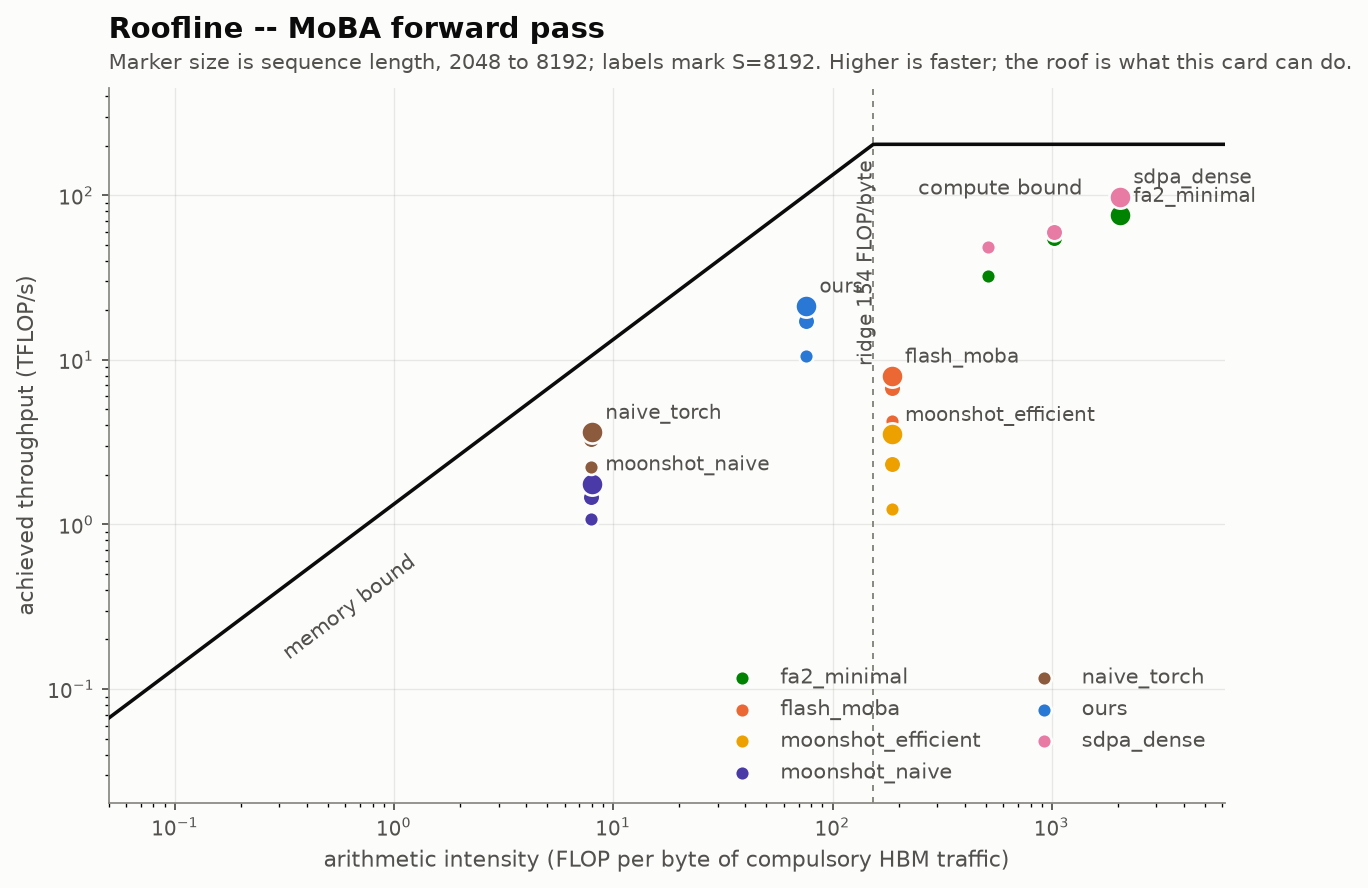
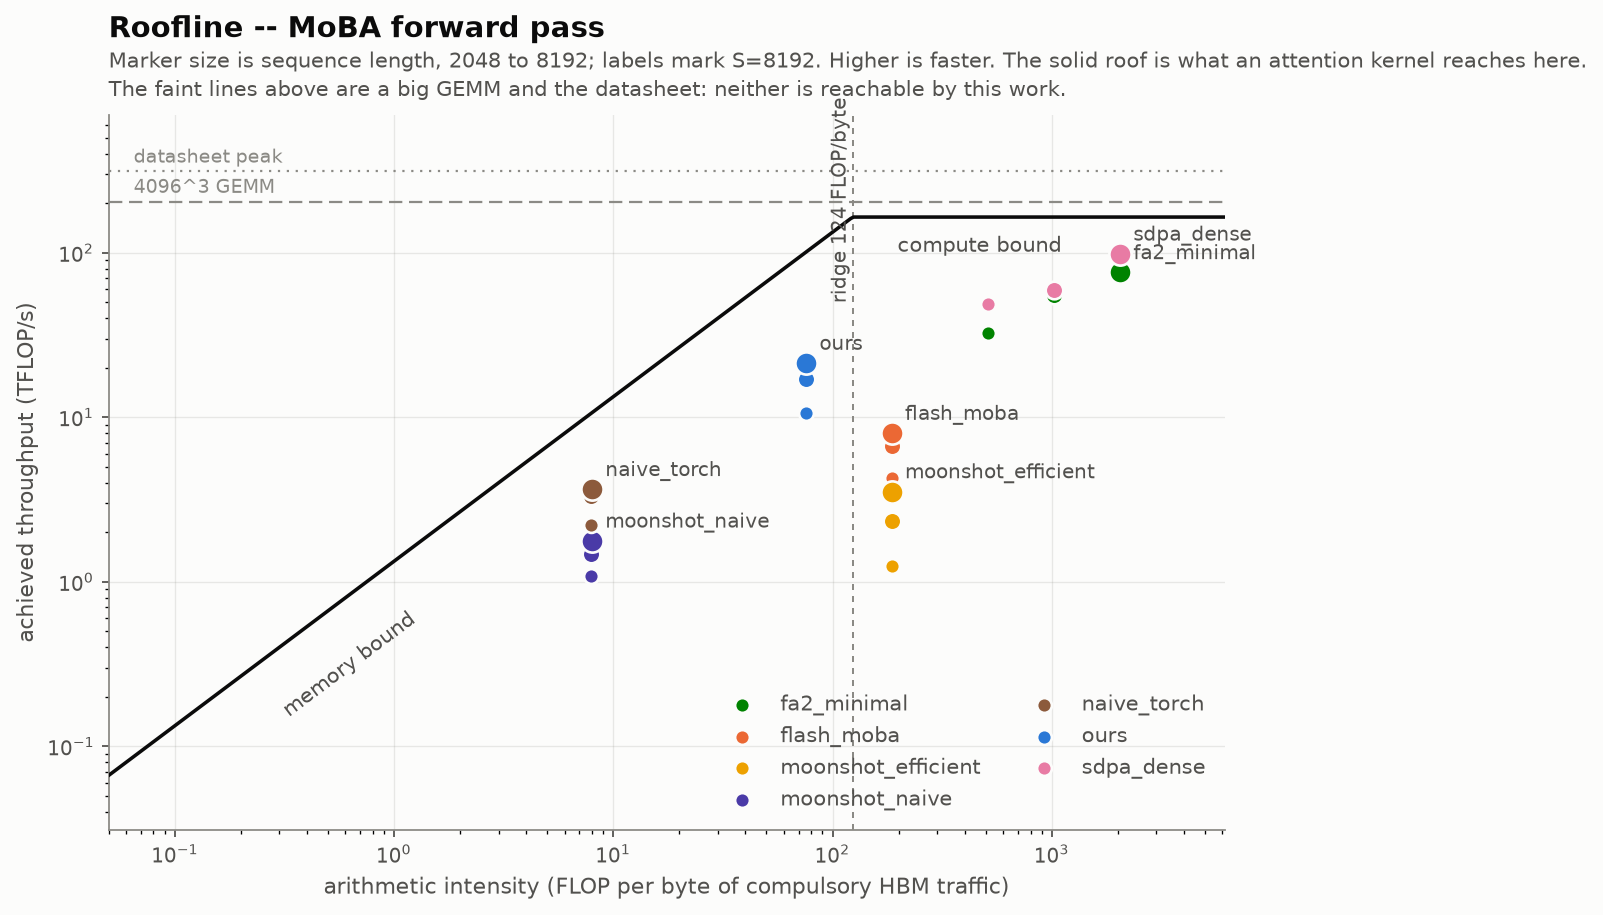
roofline: three ceilings, and the datasheet as audit rather than roof
The roof was a 4096^3 GEMM, which nothing in an attention kernel resembles.
Replacing it with the measured tile ceiling would have been just as wrong in the
other direction: a single number cannot say why it sits where it does.

Three now. Datasheet peak (312 TFLOP/s, dotted) is what the silicon is rated
for. The measured GEMM (204, dashed) is what the best code reaches. The measured
tile plus online softmax (164, solid) is what an attention kernel reaches, and
that is the only one a kernel is scored against -- the distance below it is the
only headroom anyone can chase. Drawn against 312, a 35% gap nobody can close
gets folded into our number and the reading barely moves however well we
optimise.

The datasheet is the audit, never the line: 86% of spec bandwidth and 65% of
spec compute are ordinary, and a measurement outside that band means the harness
is wrong rather than the card being unusual. The run now prints those ratios
itself.

Two bugs in --from-log, both from reading ambient state that the data had
outlived: the header named the local card above numbers from another machine,
and the spec lookup missed because it keyed on the local architecture. The
device name now travels in the log and is parsed back out.

Lowering the compute ceiling moves the ridge 153.5 -> 123.6 FLOP/byte, so the
compute-bound region widens; a kernel can cross into it purely because the
honest ceiling turned out lower.

diff --git a/bench/roofline.py b/bench/roofline.py
@@ -34,6 +34,7 @@ collecting.
 """
 
 import argparse
+import dataclasses
 import time
 from dataclasses import dataclass, field
 
@@ -67,6 +68,54 @@ FP32 = 4
 # same wrong factor.
 BANDWIDTH_ELEMS = 1 << 26           # 64 Mi bf16 = 128 MiB per buffer
 MATMUL_N = 4096
+
+# Datasheet figures, by architecture. These are the *audit*, never the roof:
+# a measured GEMM at 60-70% of spec is ordinary, and a measurement outside that
+# band means the harness is wrong rather than the card being unusual. Drawing
+# the roof here instead would fold a 35% gap nobody can close into every
+# implementation's score.
+#
+# Dense rates, not the "with sparsity" headline: NVIDIA quotes A100 bf16 as
+# "312 TFLOPS | 624 TFLOPS*" where the asterisk is 2:4 structured sparsity,
+# which nothing here uses. Bandwidth is the 40 GB PCIe part's 1555 GB/s.
+#
+# Only architectures whose datasheet has actually been read appear. A missing
+# entry prints no audit rather than a guessed one.
+SPEC = {
+    "sm_80": {"tflops_bf16": 312.0, "bandwidth_gbs": 1555.0},
+}
+
+# The same figures reachable by device name, for `--from-log`: a log replotted
+# on another machine must take its datasheet from the card that produced it,
+# not from whatever is plugged into the machine doing the drawing.
+SPEC_BY_NAME = {
+    "A100": SPEC["sm_80"],
+}
+
+
+def device_spec(device=None, name: str | None = None) -> dict:
+    """Returns datasheet figures for a card, or an empty dict.
+
+    Args:
+        device: Passed to `torch.cuda.get_device_capability`, when no `name`
+            is given.
+        name: A device name, as `--from-log` recovers from a stored run. Takes
+            precedence, because the log's card is the one the numbers describe.
+
+    Returns:
+        A dict with "tflops_bf16" and "bandwidth_gbs", or {} when that
+        architecture's datasheet is not recorded. Missing beats guessed: an
+        absent entry prints no audit rather than a wrong one.
+    """
+    if name:
+        for key, spec in SPEC_BY_NAME.items():
+            if key in name:
+                return spec
+        return {}
+    if not torch.cuda.is_available():
+        return {}
+    major, minor = torch.cuda.get_device_capability(device)
+    return SPEC.get(f"sm_{major}{minor}", {})
 
 
 # ---------------------------------------------------------------------------
@@ -115,10 +164,52 @@ def measure_peak_tflops(dtype: torch.dtype = torch.bfloat16) -> float:
 
 @dataclass(frozen=True)
 class Ceilings:
-    """This card's measured limits."""
+    """This card's limits: what it is rated for, and what it actually reaches.
+
+    THREE COMPUTE CEILINGS, NOT ONE, because "% of roof" is only useful when
+    every gap inside it is one somebody could close. Stacked:
+
+        spec_flops        what the silicon is rated for. Nobody reaches it.
+        peak_flops        what a 4096^3 GEMM reaches -- the best any code does.
+        attainable_flops  what this tile shape plus an online softmax reaches.
+
+    On the A100 those are 312, 204 and 164 TFLOP/s, and the two gaps have
+    different owners. 312 -> 204 is silicon against best-possible code: memory
+    latency, scheduling, clocks -- nobody's fault and nobody's to fix. 204 ->
+    164 is a GEMM against attention: the softmax runs on CUDA cores while the
+    matmuls own the tensor cores, so it is the algorithm's price rather than
+    this implementation's.
+
+    Only the third is the roof a kernel is measured against, because only the
+    distance below *it* is headroom anyone can chase. Drawn against 312, a 35%
+    gap nobody can close is folded into our number, and the reading barely
+    moves whether we optimise well or not at all.
+
+    The other two still earn their place on the plot: they say *why* the roof
+    sits where it does, and `spec_flops` audits the measurement. A measured GEMM
+    at 65% of spec is ordinary; at 95% or 20% the harness is wrong, not the
+    card. The datasheet is the check, never the line.
+
+    Attributes:
+        bandwidth: Measured HBM bandwidth, bytes/s.
+        peak_flops: Measured large-GEMM throughput, FLOP/s.
+        attainable_flops: Measured throughput at this kernel's tile shape with
+            its softmax (`bench/tile_ceiling.py`). None until measured, in
+            which case `peak_flops` is the roof and the plot says so.
+        spec_bandwidth: Datasheet bandwidth, bytes/s, or None.
+        spec_flops: Datasheet compute, FLOP/s, or None.
+    """
 
     bandwidth: float                 # bytes/s
     peak_flops: float                # FLOP/s
+    attainable_flops: float | None = None
+    spec_bandwidth: float | None = None
+    spec_flops: float | None = None
+
+    @property
+    def roof_flops(self) -> float:
+        """The flat roof a kernel is actually measured against."""
+        return self.attainable_flops or self.peak_flops
 
     @property
     def ridge(self) -> float:
@@ -127,11 +218,11 @@ class Ceilings:
         Below it a kernel is memory bound however well it is written; above it
         no amount of extra bandwidth helps.
         """
-        return self.peak_flops / self.bandwidth
+        return self.roof_flops / self.bandwidth
 
     def roof(self, intensity: float) -> float:
         """Attainable FLOP/s at a given arithmetic intensity."""
-        return min(self.peak_flops, self.bandwidth * intensity)
+        return min(self.roof_flops, self.bandwidth * intensity)
 
 
 # ---------------------------------------------------------------------------
@@ -371,13 +462,37 @@ def measure(name: str, seq_len: int, cfg: MoBAConfig) -> float | None:
 # ---------------------------------------------------------------------------
 
 
-def print_ceilings(c: Ceilings) -> None:
-    props = torch.cuda.get_device_properties(0)
-    print(f"\n{props.name} -- measured ceilings, not datasheet")
-    print(f"  HBM bandwidth   {c.bandwidth / BYTES_PER_GIB:8.1f} GiB/s")
-    print(f"  bf16 peak       {c.peak_flops / 1e12:8.2f} TFLOP/s "
-          f"({MATMUL_N}^3 GEMM)")
-    print(f"  ridge point     {c.ridge:8.1f} FLOP/byte  "
+def print_ceilings(c: Ceilings, name: str = "") -> None:
+    """Prints the ceiling stack, each measured value audited against spec.
+
+    Args:
+        c: The ceilings.
+        name: The card these describe. Supplied by `--from-log`, which may be
+            replotting a run from a different machine entirely.
+    """
+    name = name or (torch.cuda.get_device_properties(0).name
+                    if torch.cuda.is_available() else "device")
+    print(f"\n{name} -- ceilings")
+
+    def audit(measured, spec):
+        """Renders a measured/spec ratio, or nothing when spec is unknown."""
+        return f"  ({measured / spec:.0%} of spec)" if spec else ""
+
+    print(f"  HBM bandwidth       {c.bandwidth / BYTES_PER_GIB:8.1f} GiB/s"
+          f"{audit(c.bandwidth, c.spec_bandwidth)}")
+    print(f"  bf16, {MATMUL_N}^3 GEMM  {c.peak_flops / 1e12:8.2f} TFLOP/s"
+          f"{audit(c.peak_flops, c.spec_flops)}")
+    if c.attainable_flops:
+        print(f"  bf16, our tile      {c.attainable_flops / 1e12:8.2f} TFLOP/s"
+              f"{audit(c.attainable_flops, c.spec_flops)}   <- the roof")
+        print(f"    tile shape and softmax cost "
+              f"{c.peak_flops / c.attainable_flops:.2f}x against a big GEMM")
+    else:
+        print("  bf16, our tile         not measured -- run "
+              "`python -m bench.tile_ceiling` and pass --attainable-tflops;")
+        print("                         the GEMM stands in, and overstates "
+              "the roof")
+    print(f"  ridge point         {c.ridge:8.1f} FLOP/byte  "
           f"<- below this, memory bound however good the kernel")
 
 
@@ -434,6 +549,25 @@ def plot(points: list[Point], c: Ceilings, path: str) -> str:
 
     lo, hi = 0.05, max(4096.0, max(p.intensity for p in points) * 3)
     xs = [lo * (hi / lo) ** (i / 400) for i in range(401)]
+
+    # The ceilings a kernel is *not* measured against, drawn faintly above the
+    # roof. They are what makes the roof's position legible: without them a
+    # reader cannot tell whether 164 TFLOP/s is the card being slow or
+    # attention being expensive. Weight encodes authority -- dotted for a
+    # datasheet nobody reaches, dashed for a GEMM no attention kernel
+    # resembles, solid for the line that actually bounds this work.
+    for value, label, dashes in (
+        (c.spec_flops, "datasheet peak", (0, (1, 3))),
+        (c.peak_flops if c.attainable_flops else None,
+         f"{MATMUL_N}^3 GEMM", (0, (6, 3))),
+    ):
+        if not value:
+            continue
+        ax.axhline(value / 1e12, color=plots.INK_FAINT, linewidth=1.0,
+                   linestyle=dashes, zorder=2)
+        ax.text(lo * 1.3, value / 1e12 * 1.06, label, color=plots.INK_FAINT,
+                fontsize=8.5, va="bottom")
+
     ax.plot(xs, [c.roof(x) / 1e12 for x in xs], color=plots.INK,
             linewidth=1.6, zorder=3)
     ax.axvline(c.ridge, color=plots.INK_FAINT, linewidth=0.9,
@@ -458,7 +592,10 @@ def plot(points: list[Point], c: Ceilings, path: str) -> str:
     ax.set_xscale("log")
     ax.set_yscale("log")
     ax.set_xlim(lo, hi)
-    ax.set_ylim(c.peak_flops / 1e12 * 1e-4, c.peak_flops / 1e12 * 2.2)
+    # Headroom above the *tallest* ceiling drawn, not the roof, or the
+    # datasheet line lands outside the axes.
+    top = max(c.roof_flops, c.peak_flops, c.spec_flops or 0.0)
+    ax.set_ylim(top / 1e12 * 1e-4, top / 1e12 * 2.2)
 
     # Region labels last, and both *under* the roof. The roof is a ceiling, so
     # the area above it is unattainable: a label printed up there names a
@@ -484,7 +621,7 @@ def plot(points: list[Point], c: Ceilings, path: str) -> str:
     # legend at the foot -- because the ridge is a vertical line through the
     # busiest part of the figure. Setting the text along it avoids competing
     # for horizontal space at all.
-    ax.text(c.ridge * 0.93, c.peak_flops / 1e12 * 0.045,
+    ax.text(c.ridge * 0.88, c.roof_flops / 1e12 * 0.30,
             f"ridge {c.ridge:.0f} FLOP/byte", color=plots.INK_SOFT,
             fontsize=9, rotation=90, va="bottom", ha="center")
 
@@ -496,7 +633,9 @@ def plot(points: list[Point], c: Ceilings, path: str) -> str:
         (f"S = {biggest}. " if min(p.seq_len for p in points) == biggest else
          f"Marker size is sequence length, {min(p.seq_len for p in points)} to "
          f"{biggest}; labels mark S={biggest}. ") +
-        "Higher is faster; the roof is what this card can do.",
+        "Higher is faster. The solid roof is what an attention kernel reaches "
+        "here.\nThe faint lines above are a big GEMM and the datasheet: "
+        "neither is reachable by this work.",
         "arithmetic intensity (FLOP per byte of compulsory HBM traffic)",
         "achieved throughput (TFLOP/s)")
     plots.legend(ax, loc="lower right", ncol=2)
@@ -508,11 +647,42 @@ def plot(points: list[Point], c: Ceilings, path: str) -> str:
 # ---------------------------------------------------------------------------
 
 
+def _with_extra_ceilings(ceilings: Ceilings,
+                         attainable_tflops: float | None,
+                         device_name: str = "") -> Ceilings:
+    """Attaches the attainable roof and this card's datasheet figures.
+
+    Kept separate from measurement so that `--from-log` gets the same treatment
+    as a live run: the datasheet is a constant and the attainable roof is an
+    argument, so neither needs a GPU.
+
+    Args:
+        ceilings: The measured bandwidth and GEMM figures.
+        attainable_tflops: `bench/tile_ceiling.py`'s dots+softmax result, or
+            None to leave the GEMM standing in as the roof.
+
+    Returns:
+        A new `Ceilings` carrying whatever is known.
+    """
+    spec = device_spec(name=device_name)
+    return dataclasses.replace(
+        ceilings,
+        attainable_flops=(attainable_tflops * 1e12 if attainable_tflops
+                          else None),
+        spec_flops=spec.get("tflops_bf16", 0.0) * 1e12 or None,
+        spec_bandwidth=spec.get("bandwidth_gbs", 0.0) * 1e9 or None,
+    )
+
+
 def main() -> None:
     parser = argparse.ArgumentParser(description=__doc__)
     parser.add_argument("--seq-lens", default="2048,4096,8192",
                         help="comma separated")
     parser.add_argument("--out", default="results/roofline.png")
+    parser.add_argument("--attainable-tflops", type=float, default=None,
+                        help="the roof, from `python -m bench.tile_ceiling` "
+                             "(its dots+softmax figure). Without it the GEMM "
+                             "stands in and overstates the ceiling.")
     parser.add_argument("--from-log", default=None,
                         help="redraw a finished run's log instead of "
                              "measuring; needs no GPU")
@@ -520,8 +690,10 @@ def main() -> None:
     seq_lens = [int(x) for x in args.seq_lens.split(",")]
 
     if args.from_log:
-        points, ceilings = parse_log(args.from_log)
-        print_ceilings(ceilings)
+        points, ceilings, device_name = parse_log(args.from_log)
+        ceilings = _with_extra_ceilings(ceilings, args.attainable_tflops,
+                                        device_name)
+        print_ceilings(ceilings, device_name)
         print_table(points, ceilings)
         print()
         print(f"wrote {plot(points, ceilings, args.out)}")
@@ -530,7 +702,9 @@ def main() -> None:
     if lock_clocks():
         print("clocks locked to max")
     try:
-        ceilings = Ceilings(measure_peak_bandwidth(), measure_peak_tflops())
+        ceilings = _with_extra_ceilings(
+            Ceilings(measure_peak_bandwidth(), measure_peak_tflops()),
+            args.attainable_tflops)
         print_ceilings(ceilings)
 
         names = [b.name for b in all_backends() if b.name in MODELS]
@@ -594,12 +768,18 @@ def parse_log(path: str) -> tuple[list[Point], Ceilings]:
             figure drawn against a roof that was silently defaulted.
     """
     bandwidth = peak = None
+    device_name = ""
     points: list[Point] = []
 
     with open(path, encoding="utf-8", errors="replace") as handle:
         for line in handle:
             fields = line.split()
-            if "HBM bandwidth" in line:
+            if " -- ceilings" in line or " -- measured ceilings" in line:
+                # The card that produced the log, so its datasheet and its name
+                # travel with the numbers instead of being taken from whatever
+                # machine is drawing.
+                device_name = line.split(" -- ")[0].strip()
+            elif "HBM bandwidth" in line:
                 bandwidth = float(fields[2]) * BYTES_PER_GIB
             elif "bf16 peak" in line:
                 peak = float(fields[2]) * 1e12
@@ -620,7 +800,7 @@ def parse_log(path: str) -> tuple[list[Point], Ceilings]:
     if bandwidth is None or peak is None:
         raise ValueError(f"{path} has no ceiling lines; refusing to draw a "
                          "roofline against an assumed roof")
-    return points, Ceilings(bandwidth, peak)
+    return points, Ceilings(bandwidth, peak), device_name
 
 
 if __name__ == "__main__":
